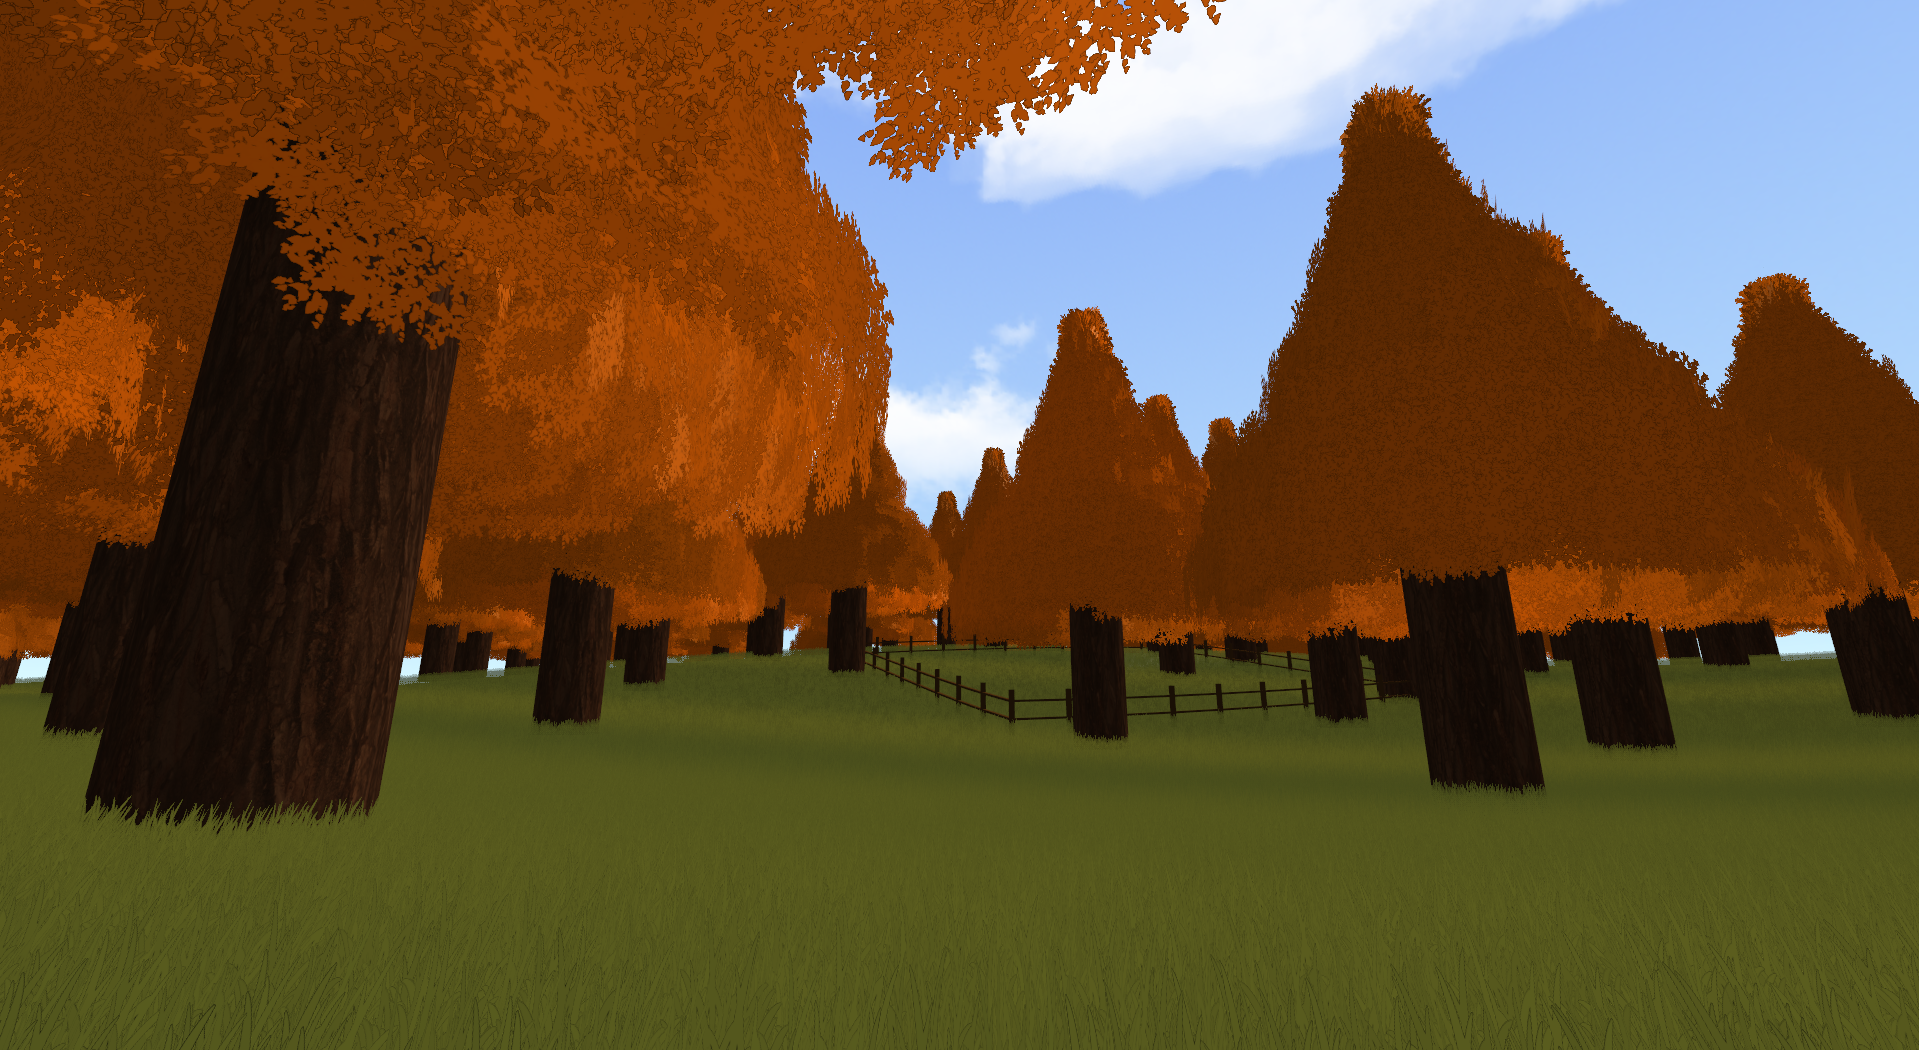
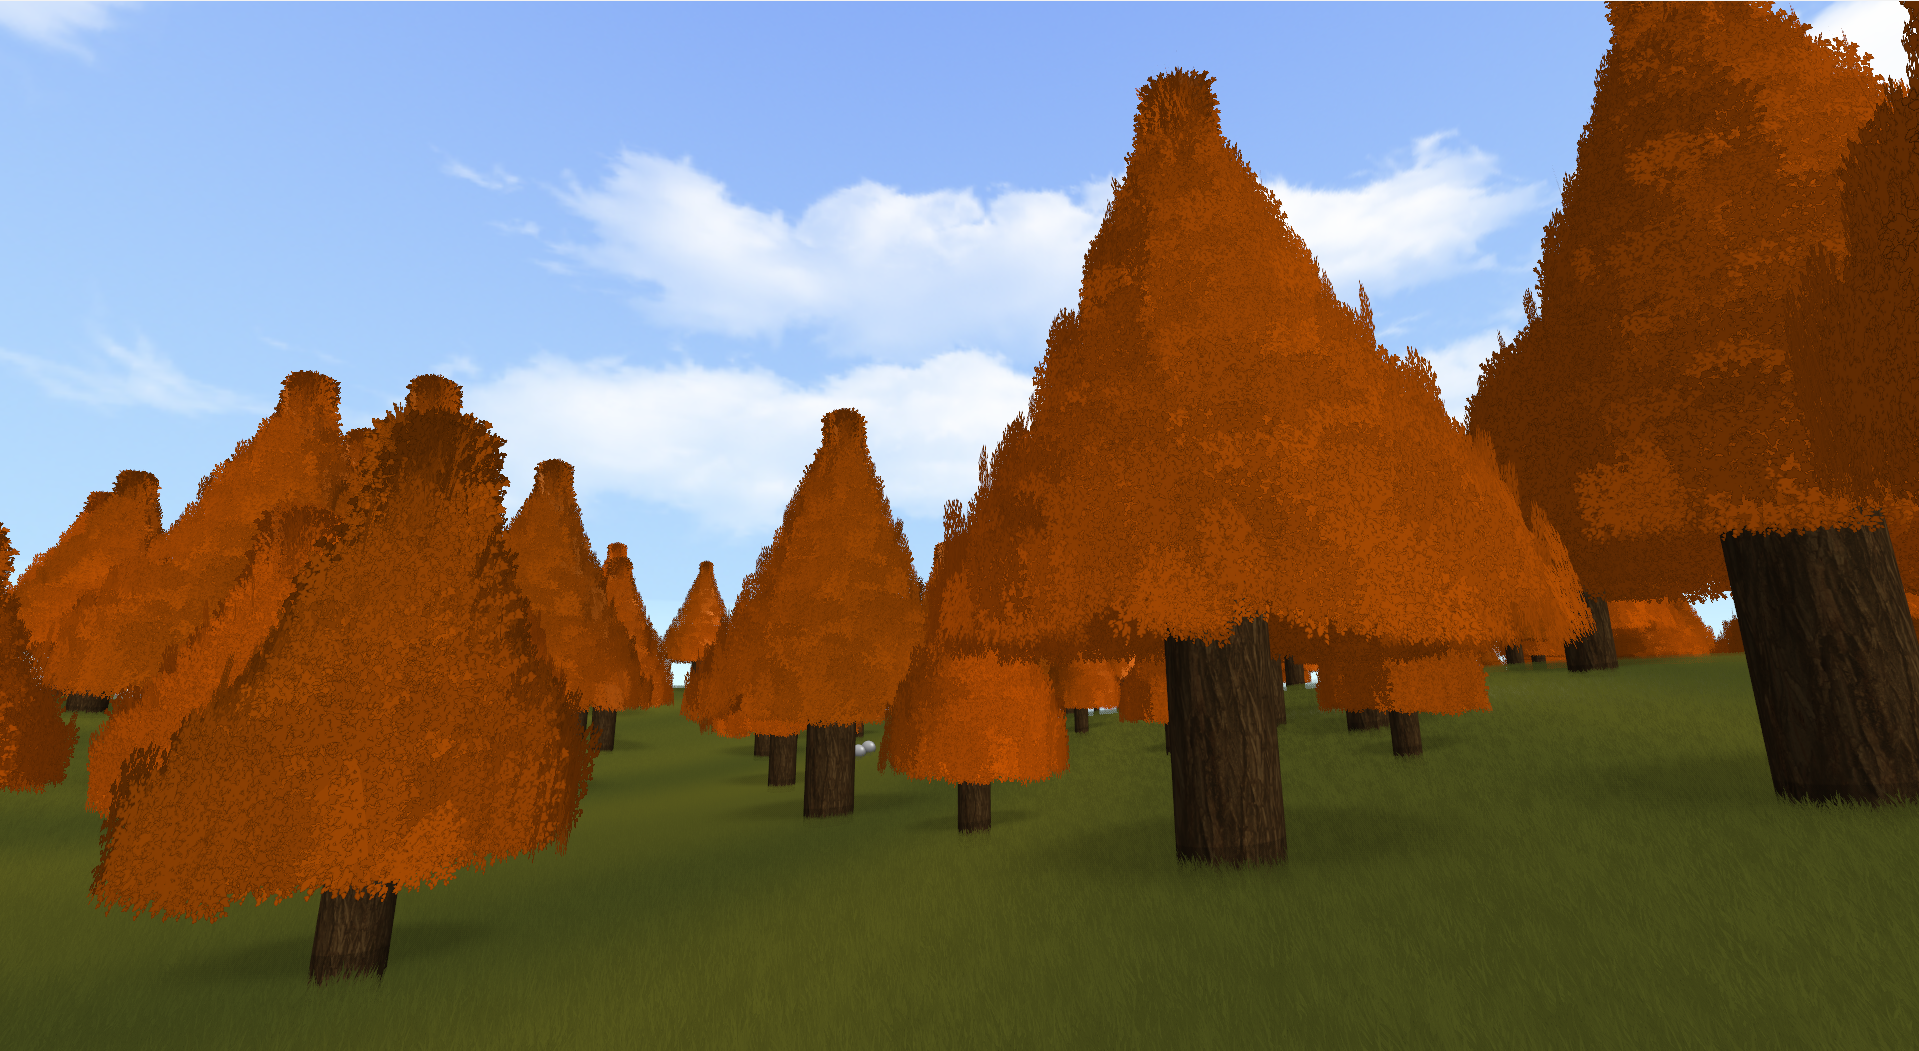
blob shadows

diff --git a/project/main.py b/project/main.py
@@ -102,8 +102,8 @@ def main():
 
     glEnable(GL_MULTISAMPLE)
     glEnable(GL_SAMPLE_ALPHA_TO_COVERAGE)
-    glDisable(GL_BLEND)  # usually best with A2C for cutout foliage
-    glDepthMask(GL_TRUE)  # keep writing depth so grass self-occludes nicely
+    glDisable(GL_BLEND)
+    glDepthMask(GL_TRUE)
 
     glrenderer.addLight(PointLight(glm.vec4(000.0, 5000.0, 3000.0, 1.0), glm.vec4(0.5, 0.5, 0.5, 1.0)))
 
@@ -217,6 +217,7 @@ def main():
     # -- TREE --
 
     foliage_meshes = []
+    shadow_transforms = []
 
     def createRandomTrees(amount):
         treeTypes = []
@@ -232,7 +233,12 @@ def main():
             for o in objs:
                 if isinstance(o, InstancedMeshObject):
                     foliage_meshes.append(o.mesh)
-            treeTypes.append(objs)
+            width = 2 + 4.0 * size
+            shadow_scale = width * 3.0
+            treeTypes.append({
+                "objs": objs,
+                "shadow_scale": shadow_scale,
+            })
         return treeTypes
 
     treeTypes = createRandomTrees(5)
@@ -246,11 +252,24 @@ def main():
 
     def putRandomTree(treeTypes, x, z):
         rand = random.randrange(len(treeTypes))
-        template_objs = treeTypes[rand]
+        template = treeTypes[rand]
+        template_objs = template["objs"]
 
         base_y = random_height_func(x, z)
         tree_positions.append(glm.vec3(x, base_y, z))
         tree_translation = glm.translate(glm.mat4(1.0), glm.vec3(x, base_y, z))
+
+        n = terrain_normal(x, z)
+        Rtilt = align_up_to_normal(n)
+        Rplane = glm.rotate(glm.mat4(1.0), glm.radians(90.0), glm.vec3(1.0, 0.0, 0.0))
+        shadow_scale = template["shadow_scale"]
+        shadow_y = base_y + 0.92
+        shadow_transforms.append(
+            glm.translate(glm.mat4(1.0), glm.vec3(x, shadow_y, z))
+            * Rtilt
+            * Rplane
+            * glm.scale(glm.vec3(shadow_scale, shadow_scale, 1.0))
+        )
 
         for o in template_objs:
             # local transform of that object inside the tree (trunk offset, foliage offset, etc.)
@@ -287,7 +306,7 @@ def main():
         mesh = None
         mat = None
         for t in treeTypes:
-            for o in t:
+            for o in t["objs"]:
                 if (id(o.mesh), id(o.material)) == key:
                     mesh, mat = o.mesh, o.material
                     break
@@ -306,6 +325,18 @@ def main():
             instanced_obj = InstancedMeshObject(mesh, mat, matrices, colors)
 
         glrenderer.addObject(instanced_obj)
+
+    if shadow_transforms:
+        shadow_color = glm.vec4(0.0, 0.0, 0.0, 0.45)
+        shadow_mesh = Quad(color=shadow_color, width=1.0, height=1.0)
+        shadow_mat = Material(
+            vertex_shader="shader.vert",
+            fragment_shader="shadow.frag",
+            blend=True
+        )
+        shadow_colors = [shadow_color] * len(shadow_transforms)
+        shadow_instanced = InstancedMeshObject(shadow_mesh, shadow_mat, shadow_transforms, shadow_colors)
+        glrenderer.addObject(shadow_instanced)
 
     # -- SHEEP --
 

diff --git a/framework/objects/instanced_mesh_object.py b/framework/objects/instanced_mesh_object.py
@@ -68,6 +68,12 @@ class InstancedMeshObject(Object):
         gl.glBufferSubData(gl.GL_ARRAY_BUFFER, 0, arr.nbytes, arr)
 
     def draw(self, camera, lights):
+        prev_blend = gl.glIsEnabled(gl.GL_BLEND)
+        if getattr(self.material, "blend", False):
+            gl.glEnable(gl.GL_BLEND)
+        else:
+            gl.glDisable(gl.GL_BLEND)
+
         self.material.set_uniforms(True, self, camera, lights)
 
         gl.glBindVertexArray(self.mesh.VAO)
@@ -78,3 +84,7 @@ class InstancedMeshObject(Object):
             gl.glDrawArraysInstanced(gl.GL_TRIANGLES, 0, len(self.mesh.vertices), self.amount)
 
         gl.glBindVertexArray(0)
+        if prev_blend:
+            gl.glEnable(gl.GL_BLEND)
+        else:
+            gl.glDisable(gl.GL_BLEND)

diff --git a/framework/objects/mesh_object.py b/framework/objects/mesh_object.py
@@ -12,7 +12,12 @@ class MeshObject(Object):
     def draw(self, camera, lights):
         if self.visible == False:
             return
-        
+        prev_blend = gl.glIsEnabled(gl.GL_BLEND)
+        if getattr(self.material, "blend", False):
+            gl.glEnable(gl.GL_BLEND)
+        else:
+            gl.glDisable(gl.GL_BLEND)
+
         self.material.set_uniforms(False, self, camera, lights)
 
         if self.mesh.VAO is None:
@@ -27,3 +32,7 @@ class MeshObject(Object):
             gl.glDrawArrays(gl.GL_TRIANGLES, 0, len(self.mesh.vertices))
 
         gl.glBindVertexArray(0)
+        if prev_blend:
+            gl.glEnable(gl.GL_BLEND)
+        else:
+            gl.glDisable(gl.GL_BLEND)

diff --git a/framework/materials/material.py b/framework/materials/material.py
@@ -12,7 +12,8 @@ class Material:
         ambient_strength=0.2,
         specular_strength = 0.5,
         diffuse_strength = 1.0,
-        shininess = 32.0):
+        shininess = 32.0,
+        blend=False):
         filedir = os.path.join(os.path.dirname(os.path.realpath(__file__)), '..', 'shaders')
 
         defines_list = []
@@ -36,6 +37,7 @@ class Material:
         self.diffuse_strength = diffuse_strength
         self.shininess         = shininess
         self.texture_scale = glm.vec2(1.0)
+        self.blend = blend
 
     def get_shader_program(self, is_instanced):
         if is_instanced:
